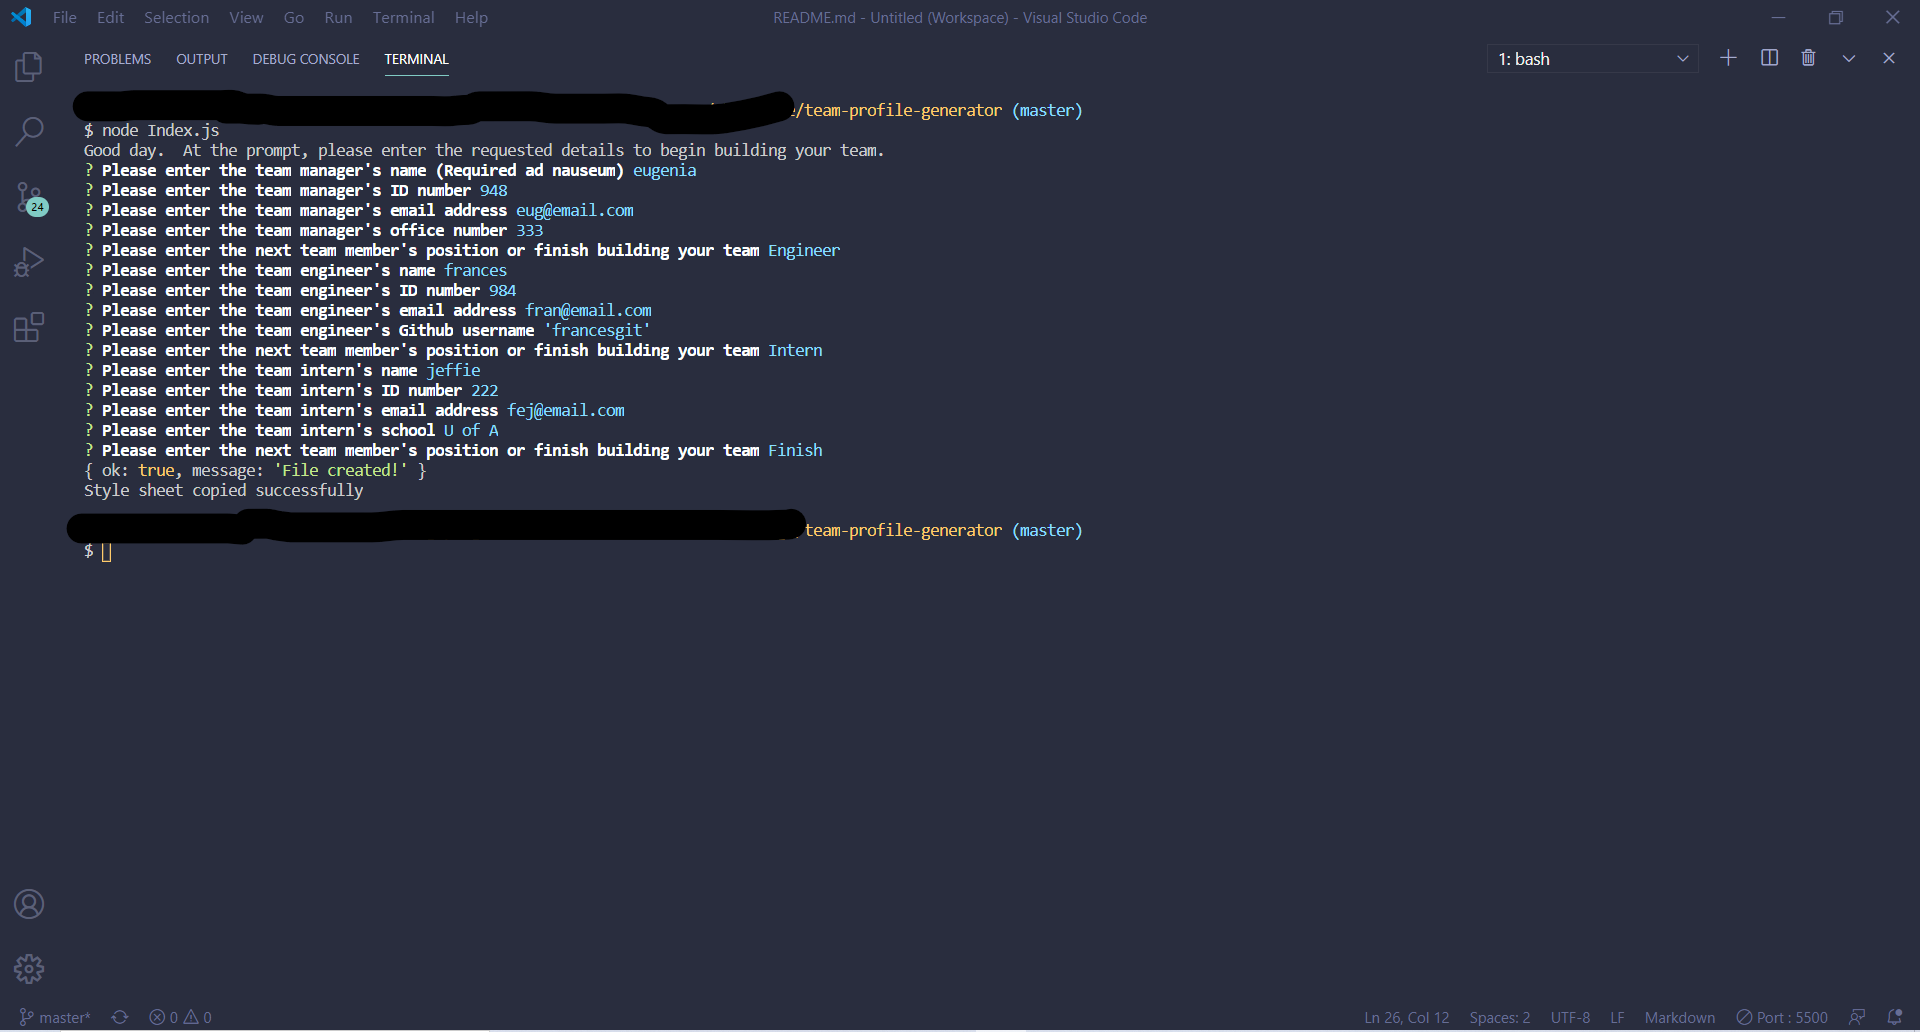
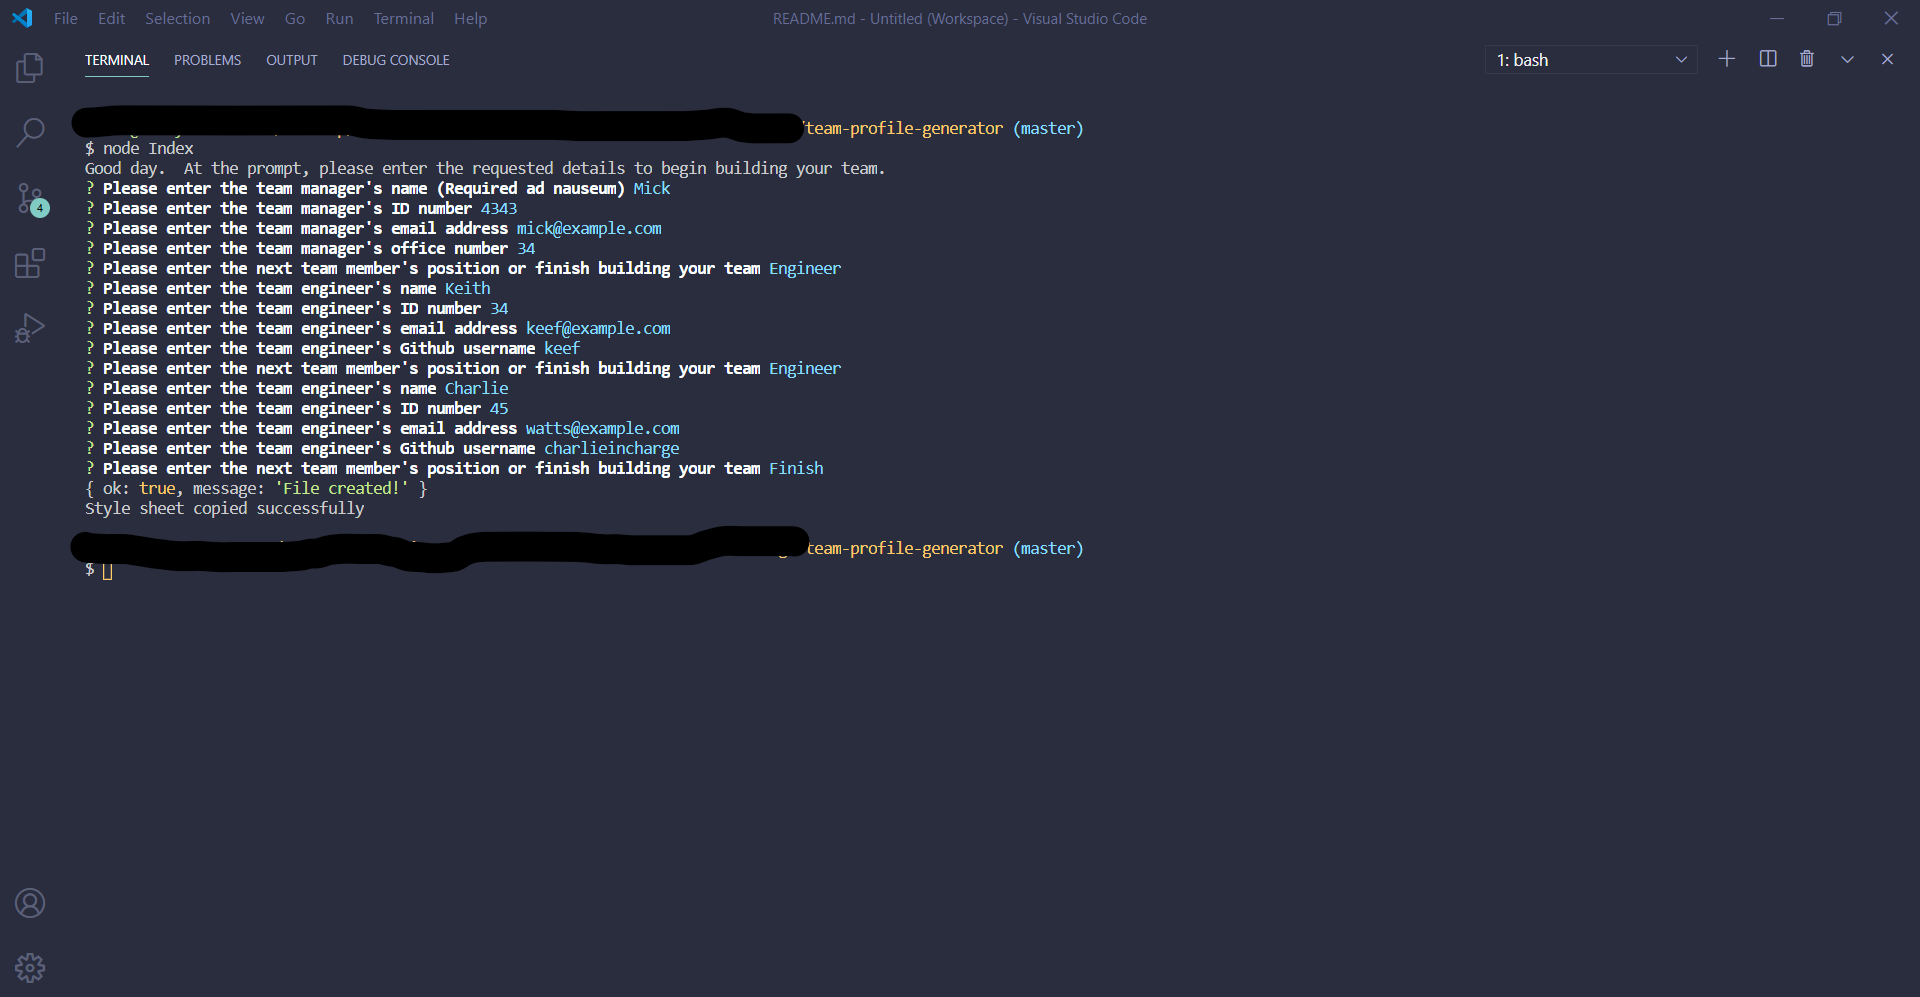
update README

diff --git a/dist/index.html b/dist/index.html
@@ -17,13 +17,13 @@
         
       <div class="card m-4">
         <div class="card-header bg-primary text-white">
-          <h5 class="card-title name">lisa</h5>
+          <h5 class="card-title name">Mick</h5>
           <h6 class="card-subtitle mb-2 role"><i class="fas fa-mug-hot mr-2 role-icon"></i>Manager</h6>
         </div>
         <div class="card-body py-5 bg-light">
           <ul class="list-group list-group-flush">
-            <li class="list-group-item id">ID: 455</li>
-            <li class="list-group-item email">Email: <a href="mailto:lisa@email.ocm">lisa@email.ocm</a></li>
+            <li class="list-group-item id">ID: 4343</li>
+            <li class="list-group-item email">Email: <a href="mailto:mick@example.com">mick@example.com</a></li>
             <li class="list-group-item wildcard">Office number: 34</li>
           </ul>
         </div>
@@ -31,56 +31,28 @@
 
       <div class="card m-4">
         <div class="card-header bg-primary text-white">
-          <h5 class="card-title name">emily</h5>
+          <h5 class="card-title name">Keith</h5>
           <h6 class="card-subtitle mb-2 role"><i class="fas fa-glasses mr-2 role-icon"></i>Engineer</h6>
-        </div>
-        <div class="card-body py-5 bg-light">
-          <ul class="list-group list-group-flush">
-            <li class="list-group-item id">ID: 344</li>
-            <li class="list-group-item email">Email: <a href="mailto:em@email.com">em@email.com</a></li>
-            <li class="list-group-item wildcard">Github: <a href="https://github.com/emgits" target="_blank">emgits</a></li>
-          </ul>
-        </div>
-      </div>
-
-      <div class="card m-4">
-        <div class="card-header bg-primary text-white">
-          <h5 class="card-title name">christopher</h5>
-          <h6 class="card-subtitle mb-2 role"><i class="fas fa-user-graduate mr-2 role-icon"></i>Intern</h6>
         </div>
         <div class="card-body py-5 bg-light">
           <ul class="list-group list-group-flush">
             <li class="list-group-item id">ID: 34</li>
-            <li class="list-group-item email">Email: <a href="mailto:chris@mailc.om">chris@mailc.om</a></li>
-            <li class="list-group-item wildcard">School: U of X</li>
+            <li class="list-group-item email">Email: <a href="mailto:keef@example.com">keef@example.com</a></li>
+            <li class="list-group-item wildcard">Github: <a href="https://github.com/keef" target="_blank">keef</a></li>
           </ul>
         </div>
       </div>
 
       <div class="card m-4">
         <div class="card-header bg-primary text-white">
-          <h5 class="card-title name">Barbara</h5>
+          <h5 class="card-title name">Charlie</h5>
           <h6 class="card-subtitle mb-2 role"><i class="fas fa-glasses mr-2 role-icon"></i>Engineer</h6>
         </div>
         <div class="card-body py-5 bg-light">
           <ul class="list-group list-group-flush">
-            <li class="list-group-item id">ID: 4522</li>
-            <li class="list-group-item email">Email: <a href="mailto:barb@emaial.com">barb@emaial.com</a></li>
-            <li class="list-group-item wildcard">Github: <a href="https://github.com/babgits" target="_blank">babgits</a></li>
-          </ul>
-        </div>
-      </div>
-
-      <div class="card m-4">
-        <div class="card-header bg-primary text-white">
-          <h5 class="card-title name">jeff</h5>
-          <h6 class="card-subtitle mb-2 role"><i class="fas fa-user-graduate mr-2 role-icon"></i>Intern</h6>
-        </div>
-        <div class="card-body py-5 bg-light">
-          <ul class="list-group list-group-flush">
-            <li class="list-group-item id">ID: 3444</li>
-            <li class="list-group-item email">Email: <a href="mailto:jef@emailc.om">jef@emailc.om</a></li>
-            <li class="list-group-item wildcard">School: U of Y</li>
+            <li class="list-group-item id">ID: 45</li>
+            <li class="list-group-item email">Email: <a href="mailto:watts@example.com">watts@example.com</a></li>
+            <li class="list-group-item wildcard">Github: <a href="https://github.com/charlieincharge" target="_blank">charlieincharge</a></li>
           </ul>
         </div>
       </div>

diff --git a/README.md b/README.md
@@ -2,25 +2,26 @@
 
 ![MIT license badge](https://img.shields.io/badge/license-MIT-green)
 
-
-
 ## Description
-
 A Node.js command-line application that takes in information about employees on a software engineering team and generates an HTML webpage that displays summaries for each person.
-![Team Profile Generator](./assets/images/screenshot.png)
+
+
+##### Command Line View
+![Command Line View Screenshot](./assets/images/screenshot.png)
+##### Finished Product View
+![Finished Product View Screenshot](./assets/images/screenshot2.png)
 
 ## Table of Contents
   * [Installation](#installation)
   * [Usage](#usage)
   * [License](#license)
+  * [Technologies](#technologies)
   * [Contributing](#contributing)
   * [Testing](#testing)
   * [Questions](#questions)
   
 ## Installation
 Clone project to a directory on your local machine and cd into the team-profile-generator directory.  Run npm install to install inquirer package
-
-
 
 ## Usage
 Run node Index to launch application and answer all of the questions that are prompted in the terminal.  When all questions have been answered, your index.html file will appear in the dist folder along with a custom stylesheet, where you can copy it to your project's directory where needed.
@@ -29,6 +30,8 @@ Run node Index to launch application and answer all of the questions that are pr
 ## License 
 This project is covered under the MIT license 
 
+## Technologies 
+Node.js, Inquirer, Jest
 
 ## Contributing
 To see the guidelines adopted for contributing to this project, please view the [Contributor Covenant](https://www.contributor-covenant.org/version/2/0/code_of_conduct/code_of_conduct.txt)
